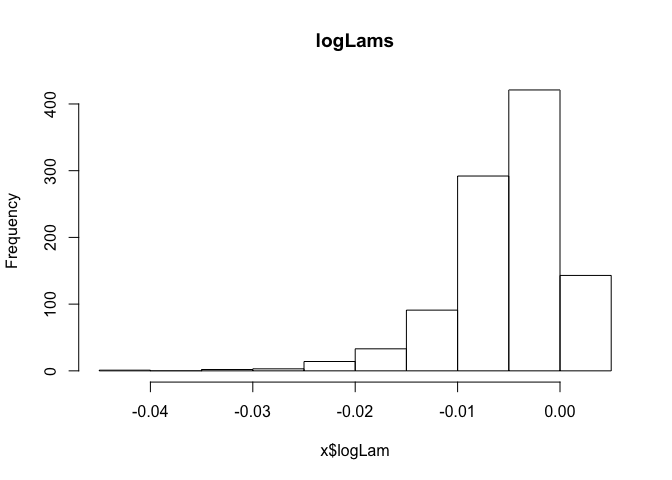
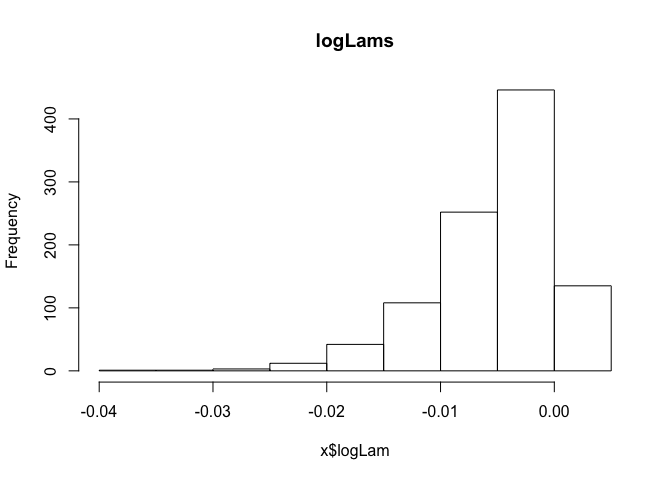
A first step towards centralizing the examples

diff --git a/README.md b/README.md
@@ -31,8 +31,8 @@ With the same Clapper rail data as in Morris & Doak
 
 ### Definining parameters manually : 
 
+
 ```r
-library(msPVA)
 res <- simulate_ms_pva(
  leaving_prob = 0.2,
  reaching_prob = 0.5,
@@ -49,9 +49,10 @@ res <- simulate_ms_pva(
  )},
  K = c(286, 60, 58),
  quasi_extinction_thresholds = c(20, 20, 20),
- n_years = 100,
- n_runs = 1000,
- with_progress_bar = FALSE 
+ n_years = 50,
+ n_runs = 100,
+ with_progress_bar = FALSE
+
 )
 
 print(res)
@@ -59,28 +60,27 @@ print(res)
 
 ```
 This is the deterministic lambda value :  1.0319573564599
-And this is the mean stochastic lambda :  0.998326502312961
+And this is the mean stochastic lambda :  0.999309977500764
 Below is mean and standard deviation of log lambda :
--0.00170197441398923 0.00737528068961553
+-0.000767636054482453 0.0125339452683634
 ```
 
 ```r
 hist(res)
 ```
 
-![](README_files/figure-html/unnamed-chunk-3-1.png) 
+![](README_files/figure-html/msExample-1.png) 
 
 ```r
 plot(res)
 ```
 
-![](README_files/figure-html/unnamed-chunk-3-2.png) 
+![](README_files/figure-html/msExample-2.png) 
 
 ### Or ask the package to calculate most of them automatically from a time-series : 
 With a two-populations polar bear time series from [Stirling et al. 2004](http://arctic.journalhosting.ucalgary.ca/arctic/index.php/arctic/article/view/479/509)
 
 ```r
-library(msPVA)
 params <- calculate_params_from_file(
  system.file("extdata", "PolarBear_Stirling2004.csv", package = "msPVA")
 )
@@ -93,7 +93,7 @@ Warning in calculate_params_from_file(system.file("extdata", "PolarBear_Stirling
 ```
 
 ```r
-res <- do.call(
+do.call(
  "simulate_ms_pva",
  c(
    params,
@@ -102,62 +102,47 @@ res <- do.call(
      leaving_prob = 0.1,
      reaching_prob = 0.7,
      quasi_extinction_thresholds = c(20, 20),
-     n_years = 100,
-     n_runs = 1000,
-     with_progress_bar = FALSE 
+     n_years = 50,
+     n_runs = 100,
+     with_progress_bar = FALSE
    )
  )
 )
-print(res)
 ```
 
 ```
 This is the deterministic lambda value :  1.05786392886293
-And this is the mean stochastic lambda :  0.994891450195734
+And this is the mean stochastic lambda :  0.989637281062268
 Below is mean and standard deviation of log lambda :
--0.00513613229713802 0.00539279087662938
+-0.0104803190936751 0.011354048683767
 ```
-
-```r
-hist(res)
-```
-
-![](README_files/figure-html/unnamed-chunk-4-1.png) 
-
-```r
-plot(res)
-```
-
-![](README_files/figure-html/unnamed-chunk-4-2.png) 
 
 ## Run it for a single population
 
 ```r
-library(msPVA)
 res <- simulate_ss_pva(
-  growth_rate_means = 0.043,
-  growth_rate_vars = 0.051,
-  initial_pops = 70,
-  K = 286,
-  quasi_extinction_thresholds = 20,
-  n_years = 50,
-  n_runs = 100,
-  with_progress_bar = FALSE 
+ growth_rate_means = 0.043,
+ growth_rate_vars = 0.051,
+ initial_pops = 70,
+ K = 286,
+ quasi_extinction_thresholds = 20,
+ n_years = 50,
+ n_runs = 100
 )
 
 print(res)
 ```
 
 ```
-Over a 50 years span, the extinction risk of this population is 0.1
-And the risk of decline is 0.17
+Over a 50 years span, the extinction risk of this population is 0.15
+And the risk of decline is 0.22
 ```
 
 ```r
 hist(res)
 ```
 
-![](README_files/figure-html/unnamed-chunk-5-1.png) 
+![](README_files/figure-html/ssExample-1.png) 
 
 ## Read the book
 If you are to use this package, I highly recommend that you first read chapter 11 from [Quantitative Conservation Ecology (Morris & Doak, 2002)](http://www.sinauer.com/quantitative-conservation-biology-theory-and-practice-of-population-viability-analysis.html), so you understand limitations and assumptions from the underlying model. Managing animal populations should not be taken lightly.
